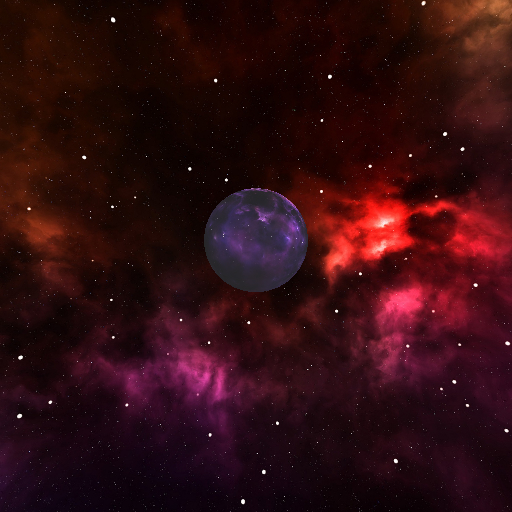
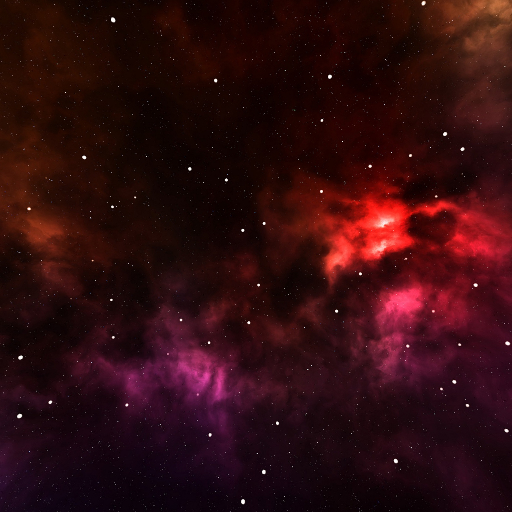
minor cleanup

Changed region(s): [[0.375, 0.3438, 0.625, 0.5938]]

diff --git a/Synth/Quadric.cpp b/Synth/Quadric.cpp
@@ -80,7 +80,6 @@ double Quadric :: intersect(cyPoint3d eye, cyPoint3d eyeToPix)
 			else
 				return INT_MAX;
 		}
-
 	}
 
 	temp1 = (-B + sqrt(D)) / (2 * A);
@@ -276,9 +275,10 @@ cyPoint3d Quadric :: computeBorderColor(cyPoint3d& normalAtHit, cyPoint3d& eyeTo
 
 cyPoint3d Quadric :: computeTextureColor(cyPoint3d hitPoint, cyPoint3d normalAtHit, bool env)
 {
+	cyPoint3d color = { 0, 0, 0 };
+
 	if (material.textureImage.data != NULL)
 	{
-		cyPoint3d color = { 0, 0, 0 };
 		double u, v, ratioX, ratioY;
 		int pixelX, pixelY;
 		int w, h;
@@ -286,80 +286,75 @@ cyPoint3d Quadric :: computeTextureColor(cyPoint3d hitPoint, cyPoint3d normalAtH
 		switch (type)
 		{
 			//plane
-		case 0:
-		{
-			w = material.textureImage.width;
-			h = material.textureImage.height;
+			case 0:
+			{
+				w = material.textureImage.width;
+				h = material.textureImage.height;
 
-			u = (1 - s - t)*texpoints[0][0] + s*texpoints[1][0] + t*texpoints[2][0];
-			v = (1 - s - t)*texpoints[0][1] + s*texpoints[1][1] + t*texpoints[2][1];
-			u = u * w;
-			v = v * h;
-			pixelX = (int)(u);
-			pixelY = (int)(v);
+				u = (1 - s - t)*texpoints[0][0] + s*texpoints[1][0] + t*texpoints[2][0];
+				v = (1 - s - t)*texpoints[0][1] + s*texpoints[1][1] + t*texpoints[2][1];
+				u = u * w;
+				v = v * h;
+				pixelX = (int)(u);
+				pixelY = (int)(v);
 
-			ratioX = u - pixelX;
-			ratioY = v - pixelY;
+				ratioX = u - pixelX;
+				ratioY = v - pixelY;
 
-			//color = textureImage.texture[(pixelY + 0) % h][(pixelX + 0) % w];
-			color = material.textureImage.texture[(pixelY + 0) % h][(pixelX + 0) % w] * (1 - ratioX) * (1 - ratioY) +
-				material.textureImage.texture[(pixelY + 1) % h][(pixelX + 0) % w] * (1 - ratioX) * ratioY +
-				material.textureImage.texture[(pixelY + 0) % h][(pixelX + 1) % w] * ratioX * (1 - ratioY) +
-				material.textureImage.texture[(pixelY + 1) % h][(pixelX + 1) % w] * ratioX * ratioY;
+				//color = textureImage.texture[(pixelY + 0) % h][(pixelX + 0) % w];
+				color = material.textureImage.texture[(pixelY + 0) % h][(pixelX + 0) % w] * (1 - ratioX) * (1 - ratioY) +
+					material.textureImage.texture[(pixelY + 1) % h][(pixelX + 0) % w] * (1 - ratioX) * ratioY +
+					material.textureImage.texture[(pixelY + 0) % h][(pixelX + 1) % w] * ratioX * (1 - ratioY) +
+					material.textureImage.texture[(pixelY + 1) % h][(pixelX + 1) % w] * ratioX * ratioY;
 
-			break;
-		}
-		//sphere
-		case 1:
-		{
-			double phi, theta, tempX;
+				break;
+			}
+			//sphere
+			case 1:
+			{
+				double phi, theta, tempX;
 
-			w = material.textureImage.width;
-			h = material.textureImage.height;
+				w = material.textureImage.width;
+				h = material.textureImage.height;
 
-			if (env)
+				normalAtHit = env ? normalAtHit : hitPoint - qc;
+				normalAtHit.Normalize();
+
 				phi = N[2].Dot(normalAtHit) / si[2];
-			else
-				phi = N[2].Dot(hitPoint - qc) / si[2];
-			phi = acos(phi);
-			v = phi / cy::cyPi<double>();
+				phi = acos(phi);
+				v = phi / cy::cyPi<double>();
 
-			if (env)
 				theta = N[1].Dot(normalAtHit) / si[1];
-			else
-				theta = N[1].Dot(hitPoint - qc) / si[1];
-			theta = theta / sin(phi);
-			theta = acos(theta);
+				theta = theta / sin(phi);
+				theta = acos(theta);
 
-			if (env)
 				tempX = N[0].Dot(normalAtHit) / si[0];
-			else
 				tempX = N[0].Dot(hitPoint - qc) / si[0];
-			theta = tempX >= 0 ? theta : (cy::cyPi<double>() * 2) - theta;
-			u = theta / (cy::cyPi<double>() * 2);
+				theta = tempX >= 0 ? theta : (cy::cyPi<double>() * 2) - theta;
+				u = theta / (cy::cyPi<double>() * 2);
 
-			//handle negative dot product
+				//handle negative dot product
 
-			v = v * h;
-			u = u * w;
-			pixelY = (int)(v);
-			pixelX = (int)(u);
-			ratioY = v - pixelY;
-			ratioX = u - pixelX;
+				v = v * h;
+				u = u * w;
+				pixelY = (int)(v);
+				pixelX = (int)(u);
+				ratioY = v - pixelY;
+				ratioX = u - pixelX;
 
-			color = material.textureImage.texture[(pixelY + 0) % h][(pixelX + 0) % w] * (1 - ratioX) * (1 - ratioY) +
-				material.textureImage.texture[(pixelY + 1) % h][(pixelX + 0) % w] * (1 - ratioX) * ratioY +
-				material.textureImage.texture[(pixelY + 0) % h][(pixelX + 1) % w] * ratioX * (1 - ratioY) +
-				material.textureImage.texture[(pixelY + 1) % h][(pixelX + 1) % w] * ratioX * ratioY;
+				color = material.textureImage.texture[(pixelY + 0) % h][(pixelX + 0) % w] * (1 - ratioX) * (1 - ratioY) +
+					material.textureImage.texture[(pixelY + 1) % h][(pixelX + 0) % w] * (1 - ratioX) * ratioY +
+					material.textureImage.texture[(pixelY + 0) % h][(pixelX + 1) % w] * ratioX * (1 - ratioY) +
+					material.textureImage.texture[(pixelY + 1) % h][(pixelX + 1) % w] * ratioX * ratioY;
 
-			break;
-		}
+				break;
+			}
 		}
 
 		material.diffuseColor = color;
 		material.specularColor = color;
 		material.refractive_index = color[0] > 0.5 ? 1.5 : 2.0;
-
-		return color;
 	}
+
+	return color;
 }

diff --git a/Synth/Main.cpp b/Synth/Main.cpp
@@ -1,10 +1,10 @@
 #include "Main.hpp"
-//#include "LoadObj.hpp"
+#include "LoadObj.hpp"
 using namespace std;
 
-#define OUTPUT_JPG "output/out"
-//#define ANTI_ALIASED
+//#define OUTPUT_JPG "output/out"
 //#define OBJFILE "objects/cube.obj"
+//#define ANTI_ALIASED
 //#define DEPTH_OF_FIELD
 //#define MOTION_BLUR
 //#define CAM_PAINTING
@@ -31,7 +31,7 @@ void renderScene()
 #ifndef DEPTH_OF_FIELD
 	AreaCamera areaCam(eye, view, up);
 #else
-	AreaCamera areaCam(eye, view, up, 0.06, 0.06, 4, 4, 1, 1, 1.6 - 0 * 2);
+	AreaCamera areaCam(eye, view, up, 0.06, 0.06, 4, 4, 1, 1, 5);
 #endif
 
 	cyPoint3d eyePos;
@@ -42,37 +42,24 @@ void renderScene()
 	cyPoint3d primaryRay, secondaryRay;
 
 	vector<Quadric> quadrics;
-	vector<cyPoint3d> N = { { 0, 0, -1 },{ -1, 0, 0 },{ 0, -1, 0 } };
-	vector<pair<double, cyPoint3d>> colors = { { 0.05, { 1, 1, 1 } }, { 0.5, _725E9C }, { 0.0, _725E9C }, { 0.0 ,{ 1, 1, 1 } } };
+	vector<cyPoint3d> axes = { { 0, 0, 1 }, { 1, 0, 0 }, { 0, 1, 0 } };
 	
 	Material mt1(0.05, { 1, 1, 1 }, 0.5, _725E9C , 0.0, _725E9C, 0.0, { 1, 1, 1 }, Tex_env, Null_image);
-	Quadric infSphere({ 1, 1, 1 }, 0, -1, { 0, 0, 0 }, { 1, 1, 1 }, N, mt1);
+	Quadric infSphere({ 1, 1, 1 }, 0, -1, { 0, 0, 0 }, { 1, 1, 1 }, axes, mt1);
 
-	vector<pair<double, cyPoint3d>> colors3 = { { 0.05,{ 1, 1, 1 } },{ 0.5, {0.7, 0.7, 0.7} },{ 0.0, {1,1,1} },{ 0.0 ,{ 1, 1, 1 } } };
-	Material mt2(0.05, { 1, 1, 1 }, 0.5, { 0.7, 0.7, 0.7 }, 0.0, { 1, 1, 1 }, 0.0, { 1, 1, 1 }, Tex_sphere, Null_image, 0, 0);
-	rotVec(N[0], N[2], -animParam * 40);
-	rotVec(N[1], N[2], -animParam * 40);
-	quadrics.push_back(Quadric({ 1, 1, 1 }, 0, -1, { 0.5 * cos(animParam), 0, 0.5 * sin(animParam) }, { 1, 1, 1 }, N, mt2));
+	Material mt2(0.05, { 1, 1, 1 }, 0.5, { 0.7, 0.7, 0.7 }, 0.0, { 1, 1, 1 }, 0.0, { 1, 1, 1 }, Tex_sphere, Null_image);
+	quadrics.push_back(Quadric({ 1, 1, 1 }, 0, -1, { 0, 0, 0 }, { 1, 1, 1 }, axes, mt2));
 
 #ifdef OBJFILE
 	LoadObjFile(OBJFILE, quadrics);
 #endif
 
-	cout << "Navigate using ARROW KEYS ...\n";
-	for (int space = 0; space < Xmax / 50; space++)
-		cout << " ";
-	cout << "|\n";
-
-//#pragma omp parellel for
-	// render pixels row wise
 	for (int i = 0; i < Xmax; i++)
 	{
 		if (i % 50 == 0)
-			cout << "#";
-
+			cout << ".";
 		for (int j = 0; j < Ymax; j++)
 		{
-
 #ifndef ANTI_ALIASED
 			rx = 0.5;
 			ry = 0.5;
@@ -98,9 +85,9 @@ void renderScene()
 					x = X / Xmax;
 					y = Y / Ymax;
 					pix = cam.viewPortBottomLeft + cam.scaleX * cam.n0 * x + cam.scaleY * cam.n1 * y;
-					//pix = areaCam.eyeBottomLeft + areaCam.scaleX * areaCam.n0 * x + areaCam.scaleY * areaCam.n1 * y;
 
-					// depth of field
+#if DEPTH_OF_FIELD
+					//pix = areaCam.eyeBottomLeft + areaCam.scaleX * areaCam.n0 * x + areaCam.scaleY * areaCam.n1 * y;
 					primaryRay = (pix - areaCam.pos).GetNormalized();
 					pointOnFocalPlane = areaCam.pos + areaCam.focalLength * primaryRay;
 					for (int pi = 0; pi < areaCam.pxmax; pi++)
@@ -132,9 +119,7 @@ void renderScene()
 							}
 						}
 					}
-					//
 
-					// camera painting
 #ifdef CAM_PAINTING
 					cp_r = camera_painting.texture[j][i][0];
 					cp_g = camera_painting.texture[j][i][1];
@@ -147,21 +132,21 @@ void renderScene()
 					eye = cyPoint3d{ 0.2, 0, 6 } + cp_x * cp_r * cam.n0 + cp_y * cp_g * cam.n1 + cp_z * cp_b * cam.n2;
 					areaCam = { eye, view, up };
 #endif
-
-					//camToPix = (pix - cam.pos).GetNormalized();
-					//color += castRays(cam.pos, camToPix, quadrics, lights, infSphere, 1) * weighted;
+#else
+					camToPix = (pix - cam.pos).GetNormalized();
+					color += castRays(cam.pos, camToPix, quadrics, lights, infSphere, 1) * weighted;
+#endif
 				}
 			}
 
-			frameBuffer[(Ymax * i + j) * 3 + 0] = clamp(color[0], 0.0, 1.0);
-			frameBuffer[(Ymax * i + j) * 3 + 1] = clamp(color[1], 0.0, 1.0);
-			frameBuffer[(Ymax * i + j) * 3 + 2] = clamp(color[2], 0.0, 1.0);
+			for (int k = 0; k < 3; ++k)
+				frameBuffer[(Ymax * i + j) * 3 + k] = (float)clamp(color[k], 0.0, 1.0);
 		}
 	}
 
 	glDrawPixels(Xmax, Ymax, GL_RGB, GL_FLOAT, frameBuffer.data());
 	glFlush();
-	cout << "\nRendering Complete\n\n";
+	cout << "!\n\n";
 
 #ifdef OUTPUT_JPG
 	string fname = OUTPUT_JPG + to_string(animParam) + ".jpg";
@@ -218,7 +203,7 @@ int main(int argc, char** argv)
 {
 	glutInit(&argc, argv);
 	glutInitDisplayMode(GLUT_SINGLE | GLUT_RGB);
-	glutInitWindowPosition(0, 0);
+	glutInitWindowPosition(500, 100);
 	glutInitWindowSize(Xmax, Ymax);
 	glutCreateWindow("----Synthesized----");
 	glutDisplayFunc(renderScene);

diff --git a/Synth/Camera.hpp b/Synth/Camera.hpp
@@ -28,7 +28,7 @@ class AreaCamera
 public:
 	cyPoint3d pos, dir, updir;
 	cyPoint3d n0, n1, n2;
-	cyPoint3d eyeBottomLeft;
+	cyPoint3d eyeCenter, eyeBottomLeft;
 	double scaleX, scaleY;
 	int pxmax, pymax;
 	int pxsub, pysub;
@@ -45,6 +45,7 @@ public:
 		n0 = dir.Cross(updir).GetNormalized();
 		n1 = n0.Cross(n2).GetNormalized();
 
+		//eyeCenter = pos + n2 * focalLength;
 		eyeBottomLeft = pos - n0 * (scaleX / 2.0) - n1 * (scaleY / 2.0);
 	}
 };

diff --git a/Synth/Main.hpp b/Synth/Main.hpp
@@ -20,7 +20,7 @@ Image Null_image;
 Image Tex_env("textures/AdobeStock_space_3.2.jpeg");
 //Image Tex_plane("textures/AdobeStock_stone_2.jpeg");
 //Image Tex_plane_2("textures/tess3_sq.png");
-Image Tex_sphere("textures/AdobeStock_space_1.1.jpeg");
+Image Tex_sphere("textures/moon.jpg");
 //Image Tex_sphere_2("textures/AdobeStock_space_2.2.jpeg");
 //Image Tex_sphere_3("textures/nebula.jpg");
 //Image Tex_sphere_4("textures/jupiter.jpg");

diff --git a/Synth/Utility.cpp b/Synth/Utility.cpp
@@ -39,9 +39,9 @@ void rotVec(cyPoint3d& v1, cyPoint3d v2, double degAngle)
 double clamp(double val, double low, double high)
 {
 	if (val < low)
-		return 0;
+		return 0.0;
 	else if (val > high)
-		return 1;
+		return 1.0;
 	else
 		return (val - low) / (high - low);
 }

diff --git a/Synth/Tracer.cpp b/Synth/Tracer.cpp
@@ -271,5 +271,6 @@ cyPoint3d castRays(cyPoint3d pos, cyPoint3d dir, vector<Quadric>& quadrics, vect
 		else
 			color += colorTemp;
 	}
+
 	return color;
 }

diff --git a/Synth/LoadObj.hpp b/Synth/LoadObj.hpp
@@ -1,6 +1,5 @@
 #pragma once
 #include <string>
-#include "OBJ_Loader.h"
 #include "Quadric.hpp"
 #include "Utility.hpp"
 #include "Tracer.hpp"

diff --git a/Synth/LoadObj.cpp b/Synth/LoadObj.cpp
@@ -1,4 +1,5 @@
 #include "LoadObj.hpp"
+#include "OBJ_Loader.h"
 
 void LoadObjFile(std::string filename, vector<Quadric>& quadrics)
 {
